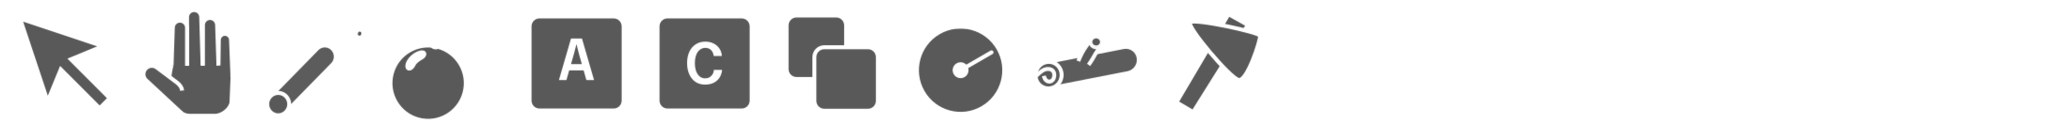
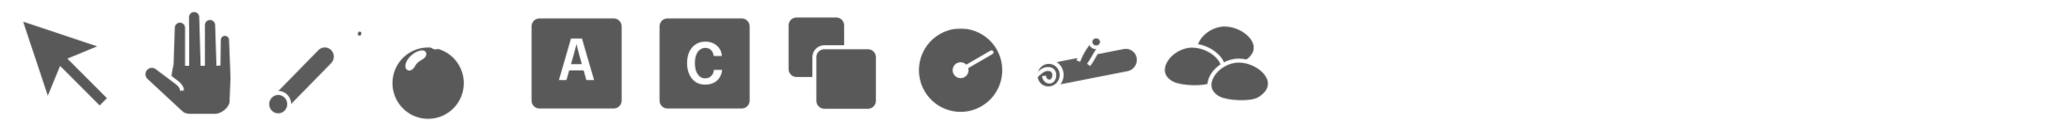
Add stone as a resbar resource

Changed region(s): [[0.5625, 0.381, 0.625, 0.8571], [0.5625, 0.1429, 0.625, 0.3333], [0.5625, 0.3333, 0.5938, 0.3571]]

diff --git a/src/ui/render.ts b/src/ui/render.ts
@@ -90,7 +90,6 @@ function drawResbar(d: CanvasRenderingContext2D, state: CoreState) {
 
   const ress = getCurrentResources(state);
   ress.forEach((res, ix_in_resbar) => {
-
     const ICON_SCALE = 0.7;
     const S_in_canvas = resbar_bds_in_canvas.sz.x;
     const rect_in_canvas = apply_to_rect(
@@ -98,15 +97,8 @@ function drawResbar(d: CanvasRenderingContext2D, state: CoreState) {
       { p: { x: 0, y: S_in_canvas * ix_in_resbar }, sz: { x: S_in_canvas, y: S_in_canvas } },
     );
     const scaled_rect_in_canvas = scaleRectToCenter(rect_in_canvas, ICON_SCALE);
-
     drawImage(d, toolbar, largeRectOf(res), scaled_rect_in_canvas);
-
-    if (res == 'wood') {
-      drawToolbarCount(d, rect_in_canvas, state.slowState.resource.wood);
-    }
-    if (res == 'axe') {
-      drawToolbarCount(d, rect_in_canvas, state.slowState.resource.axe);
-    }
+    drawToolbarCount(d, rect_in_canvas, state.slowState.resource[res]);
   });
 
 }

diff --git a/src/core/tools.ts b/src/core/tools.ts
@@ -25,12 +25,13 @@ export type Tool = (typeof tools)[number];
 
 const resbarResources = [
   'wood',
-  'axe',
+  'stone',
 ] as const;
 
 export type ResbarResource = (typeof resbarResources)[number];
 export type WorldOnlyResource =
   | 'planks'
+  | 'axe'
   ;
 export type Resource = ResbarResource | WorldOnlyResource;
 
@@ -85,14 +86,7 @@ export function getCurrentResources(state: CoreState): ResbarResource[] {
   if (state.slowState.winState.t == 'lost') {
     return [];
   }
-  const resources: ResbarResource[] = [];
-  if (state.slowState.resource.wood > 0) {
-    resources.push('wood');
-  }
-  if (state.slowState.resource.axe > 0) {
-    resources.push('axe');
-  }
-  return resources;
+  return resbarResources.filter(res => state.slowState.resource[res] > 0);
 }
 
 export function rectOfTool(tool: Tool): Rect {

diff --git a/src/core/bonus.ts b/src/core/bonus.ts
@@ -144,7 +144,7 @@ export function overlapScoringOfBonus(bonus: Bonus, p_in_world_int: Point): Scor
 export function resolveScoring(state: CoreState, scoring: Scoring): CoreState {
   const bonus = scoring.bonus;
   switch (bonus.t) {
-    case 'tree': return produce(state, s => { s.slowState.resource.wood++; s.slowState.resource.axe++; });
+    case 'tree': return produce(state, s => { s.slowState.resource.wood++; });
     case 'bomb': return produce(state, s => { s.slowState.inventory.bombs++; });
     case 'required': return produce(state, s => { incrementScore(s, 10); });
     case 'vowel': return produce(state, s => { s.slowState.inventory.vowels += 5; });

diff --git a/src/ui/sprite-sheet.ts b/src/ui/sprite-sheet.ts
@@ -80,6 +80,7 @@ export function spriteLocOfRes(res: Resource): Point {
     case 'wood': return { x: 1, y: 6 };
     case 'axe': return { x: 1, y: 7 };
     case 'planks': return { x: 1, y: 8 };
+    case 'stone': return { x: 1, y: 9 };
   }
 }
 
@@ -94,7 +95,7 @@ export function largeSpriteLoc(tool: Tool | ResbarResource): Point {
     case 'copy': return { y: 0, x: 6 };
     case 'time': return { y: 0, x: 7 };
     case 'wood': return { y: 0, x: 8 };
-    case 'axe': return { y: 0, x: 9 };
+    case 'stone': return { y: 0, x: 9 };
   }
 }
 

diff --git a/src/core/landing-resolve.ts b/src/core/landing-resolve.ts
@@ -18,8 +18,7 @@ export function removeSource(state: CoreState, src: MoveSourceId): CoreState {
   switch (src.t) {
     case 'mobile': return putMobileNowhere(state, src.id, 'noclear');
     case 'freshResource': return produce(state, cs => {
-      if (src.res == 'wood' || src.res == 'axe')
-        cs.slowState.resource[src.res]--;
+      cs.slowState.resource[src.res]--;
     });
   }
 }

diff --git a/src/core/state.ts b/src/core/state.ts
@@ -235,7 +235,7 @@ export function mkGameState(seed: number, creative: boolean, bonusLayerSeed: num
         },
         resource: {
           wood: 0,
-          axe: 0,
+          stone: 0,
         },
         scoring: { score: 0, highWaterMark: 0 },
         currentTool: 'pointer',

diff --git a/src/ui/instructions.tsx b/src/ui/instructions.tsx
@@ -184,7 +184,7 @@ function exampleState(): GameState {
         },
         resource: {
           wood: 0,
-          axe: 0,
+          stone: 0,
         },
         scoring: {
           score: 7,
